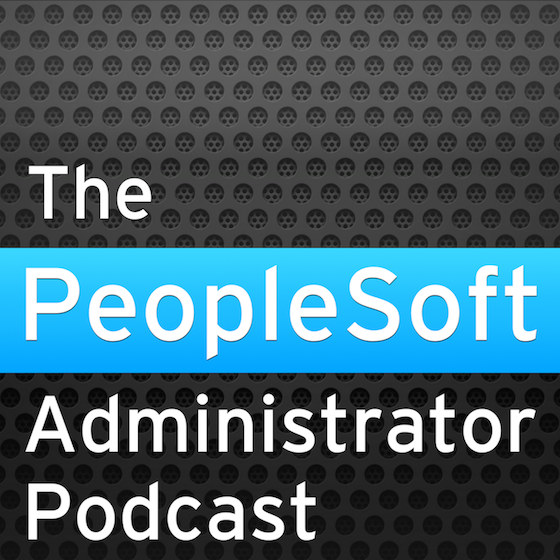
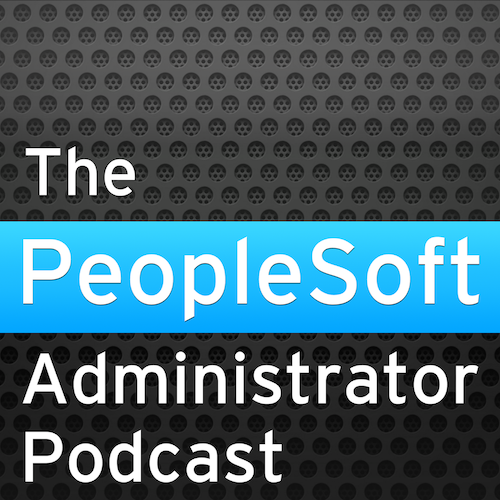
Working on images

diff --git a/psadmin.css b/psadmin.css
@@ -7,7 +7,6 @@
     font-style: normal;
 }
 
-
 body {
   background-color: white;
 }
@@ -107,12 +106,12 @@ code {
   border-bottom: 0px solid #222;
 }
 
-img.psadminlogo {
+.psadminlogo::after {
   padding-top: 5%;
   padding-bottom: 10%;
 }
 
-img.podcastlogo {
+.podcastlogo::after {
   padding-top: 15%;
   padding-bottom: 15%;
 }

diff --git a/intro/about.md b/intro/about.md
@@ -5,7 +5,7 @@
 1. Kyle Benson
 1. Dan Iverson
 
-![.podcastlogo Podcast Logo](../_images/podcast.png)
+![.podcastlogo Podcast Logo](/_images/podcast.png)
 
 !SLIDE bullets
 

diff --git a/git/git.md b/git/git.md
@@ -29,7 +29,7 @@
 
 !SLIDE bullets incremental
 
-# Collaborate 
+# Collaborate
 
 1. Share code on GitHub
 1. `ps-project-git` - App Designer projects and Git
